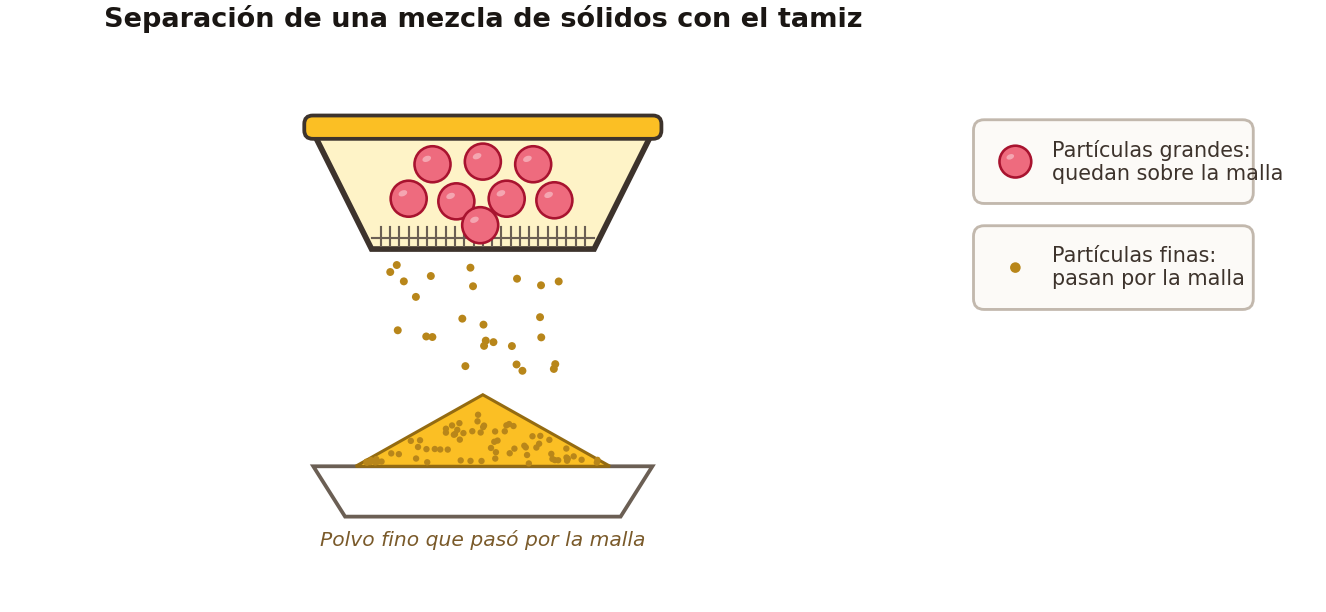
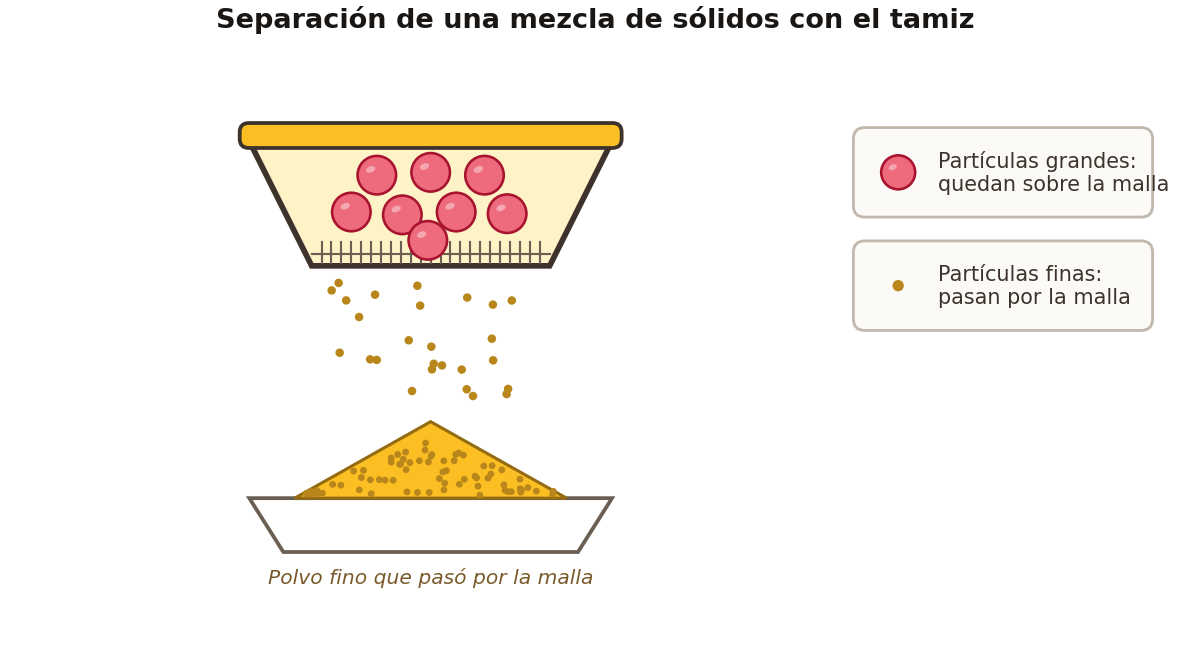
UX cuadernillos: opciones tabla/figura en rejilla 2x2, birrete de Sabio sin recorte, periodo recordado por estudiante, figura del tamiz (cn-9) recompuesta sin desbordamiento

diff --git a/cuadernillo.html b/cuadernillo.html
@@ -740,12 +740,15 @@
       //    ejes y tablas grandes legibles.
       const opcImgs = p.opciones_imagenes || null;
       const areaActual = (cuadernillo.area || '').toLowerCase();
-      // TODAS las preguntas con imagen por opción usan grid 2x2: las opciones quedan lado a lado,
+      // Opciones "ricas" que NO son imagen pero traen una tabla/figura HTML embebida (p. ej. tablas
+      // de datos como opción): también van en rejilla 2x2 para no apilarse verticalmente dejando medio
+      // panel vacío y poder compararlas de un vistazo. Las opciones de solo texto siguen en columna.
+      const _esOpcRica = (t) => /<(table|img|svg)\b/i.test(String(t ?? ''));
+      const opcTieneTabla = !opcImgs && mapeo.mostrada.some((l) => _esOpcRica(p.opciones[l]));
+      // TODAS las preguntas con imagen/tabla por opción usan grid 2x2: las opciones quedan lado a lado,
       // comparables y de tamaño moderado (antes en columna salían enormes y costaba diferenciarlas).
-      const usaGrid2x2 = !!opcImgs;
-      cont.className = opcImgs
-        ? (usaGrid2x2 ? 'grid grid-cols-1 md:grid-cols-2 gap-4' : 'flex flex-col gap-4')
-        : '';
+      const usaGrid2x2 = !!opcImgs || opcTieneTabla;
+      cont.className = usaGrid2x2 ? 'grid grid-cols-1 md:grid-cols-2 gap-4' : '';
       cont.innerHTML = '';
 
       mapeo.original.forEach((letraVisual, i) => {
@@ -781,6 +784,18 @@
               <img src="${opcImgs[letraReal]}" alt="Opción ${letraReal}" loading="lazy" style="max-width:100%;height:auto;max-height:${maxH}px;object-fit:contain;border-radius:4px;margin:0 auto" onerror="${onerrorPlaceholder}">
             </div>
             ${textoOpcion ? `<div class="texto text-xs text-slate-600 mt-2">${textoOpcion}</div>` : ''}
+          `;
+        } else if (usaGrid2x2 && _esOpcRica(textoOpcion)) {
+          // La opción ES una tabla/figura HTML: etiqueta arriba y contenido centrado dentro de la
+          // celda de la rejilla 2x2 (con scroll horizontal de reserva para tablas anchas en móvil).
+          div.style.flexDirection = 'column';
+          div.style.alignItems = 'stretch';
+          div.innerHTML = `
+            <div class="flex items-center gap-3 mb-2">
+              <div class="letra">${letraVisual}</div>
+              <div class="text-xs text-slate-500 uppercase tracking-wider">Opción ${letraVisual}</div>
+            </div>
+            <div class="texto opcion-rica" style="text-align:center;overflow-x:auto">${textoOpcion}</div>
           `;
         } else {
           div.innerHTML = `

diff --git a/estudiante.html b/estudiante.html
@@ -172,7 +172,13 @@
     // mezclados. Por defecto, el primer periodo disponible (preferir el 1).
     const _periodosDisp = [...new Set(cuadernillos.map(c => normPeriodo(c.periodo)))]
       .sort((a, b) => Number(a) - Number(b));
-    let _periodoFiltro = _periodosDisp[0] || '1';
+    // El periodo elegido se RECUERDA por estudiante: al terminar un cuadernillo y volver al inicio,
+    // se mantiene el último periodo seleccionado (evita tener que re-elegir "Período 2" cada vez).
+    const _LS_PERIODO = 'idea_periodo_' + (ses.user_id || ses.grado || 'x');
+    const _periodoGuardado = normPeriodo(localStorage.getItem(_LS_PERIODO) || '');
+    let _periodoFiltro = (_periodoGuardado && _periodosDisp.includes(_periodoGuardado))
+      ? _periodoGuardado
+      : (_periodosDisp[0] || '1');
     const _pasaPeriodo = (c) => normPeriodo(c.periodo) === normPeriodo(_periodoFiltro);
     const listaCuad = document.getElementById('lista-cuadernillos');
     listaCuad.innerHTML = '';
@@ -349,6 +355,7 @@
             // Campo obligatorio: f.periodo siempre trae un valor (1 o 2). Si por alguna razón
             // llegara vacío, conservamos el actual para no mostrar todo.
             _periodoFiltro = f.periodo || _periodoFiltro;
+            try { localStorage.setItem(_LS_PERIODO, normPeriodo(_periodoFiltro)); } catch (_) {}
             await renderCuadernillosEnriquecidos();
           },
           { sinTodos: ['periodo'], valoresIniciales: { periodo: _periodoFiltro } }

diff --git a/index.html b/index.html
@@ -149,7 +149,7 @@
     .idx-back{position:absolute;top:20px;left:22px;z-index:3;display:inline-flex;align-items:center;gap:6px;font-size:13.5px;font-weight:600;color:var(--muted);background:rgba(255,255,255,.82);backdrop-filter:blur(6px);border:1px solid var(--line);border-radius:10px;padding:8px 13px;cursor:pointer;text-decoration:none}
     .idx-back:hover{color:var(--navy)}
     .idx-login-card{position:relative;z-index:1;display:grid;grid-template-columns:.92fr 1.08fr;width:min(860px,100%);background:#fff;border:1px solid var(--line);border-radius:24px;overflow:hidden;box-shadow:0 48px 110px -40px rgba(27,23,38,.5),0 6px 18px -10px rgba(0,0,0,.07)}
-    .idx-login-visual{position:relative;overflow:hidden;color:#3B2E33;padding:34px 30px;display:flex;flex-direction:column;min-height:430px;border-right:1px solid #F2E6DF;
+    .idx-login-visual{position:relative;overflow:visible;color:#3B2E33;padding:34px 30px;display:flex;flex-direction:column;min-height:430px;border-right:1px solid #F2E6DF;
       background:linear-gradient(162deg,#FFFFFF 0%,#FFF6F1 48%,#FAE7DF 100%)}
     .idx-login-visual::before{content:"";position:absolute;inset:0;z-index:0;background:radial-gradient(58% 46% at 82% 6%,rgba(226,124,79,.16),transparent 62%),radial-gradient(52% 50% at 4% 98%,rgba(159,18,57,.09),transparent 62%)}
     .idx-login-visual>*{position:relative;z-index:2}

diff --git a/css/idea-custom.css b/css/idea-custom.css
@@ -999,6 +999,9 @@ body:has(> .idea-footer) { padding-bottom: 56px; }
 }
 
 /* === MASCOTA SABIO === */
+/* overflow visible: el <svg> externo recorta su contenido por defecto; con animaciones de
+   flotación/rotación el birrete podía quedar cortado. Con visible nunca se recorta la mascota. */
+.sabio, .sabio-svg { overflow: visible; }
 .sabio { display: inline-block; vertical-align: middle; }
 .sabio-saludando, .sabio-feliz { animation: sabioBounce 3s ease-in-out infinite; }
 .sabio-animando { animation: sabioWiggle 4s ease-in-out infinite; }
@@ -1628,7 +1631,9 @@ section h3, .seccion-h3 { font-size: 18px; font-weight: 600; }
   border-radius: var(--idea-radius, 18px);
   background: linear-gradient(135deg, #FFF8EE 0%, #FFE8D8 60%, #FFD9C0 100%);
   box-shadow: 0 10px 28px -10px rgba(225, 29, 72, 0.18), 0 2px 8px rgba(15, 15, 18, 0.05);
-  overflow: hidden;
+  /* visible: deja que el birrete de Sabio (columna izquierda) se muestre completo aunque flote/rote.
+     El ::before decorativo usa inset:0 con gradientes transparentes en las esquinas, no se desborda. */
+  overflow: visible;
 }
 .panel-hero-est::before {
   content: "";
